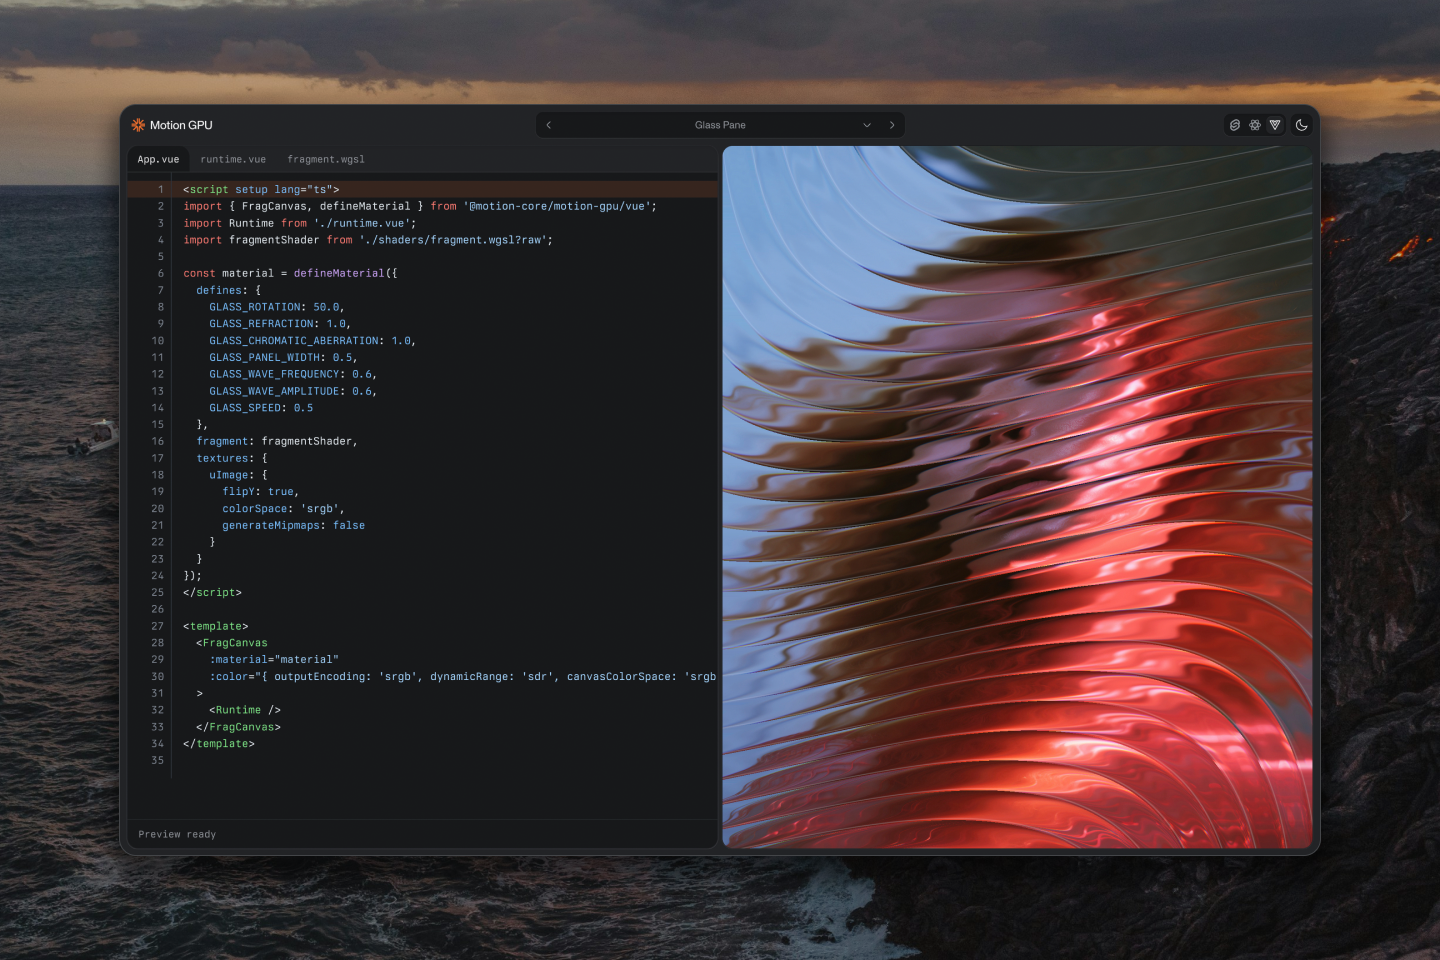
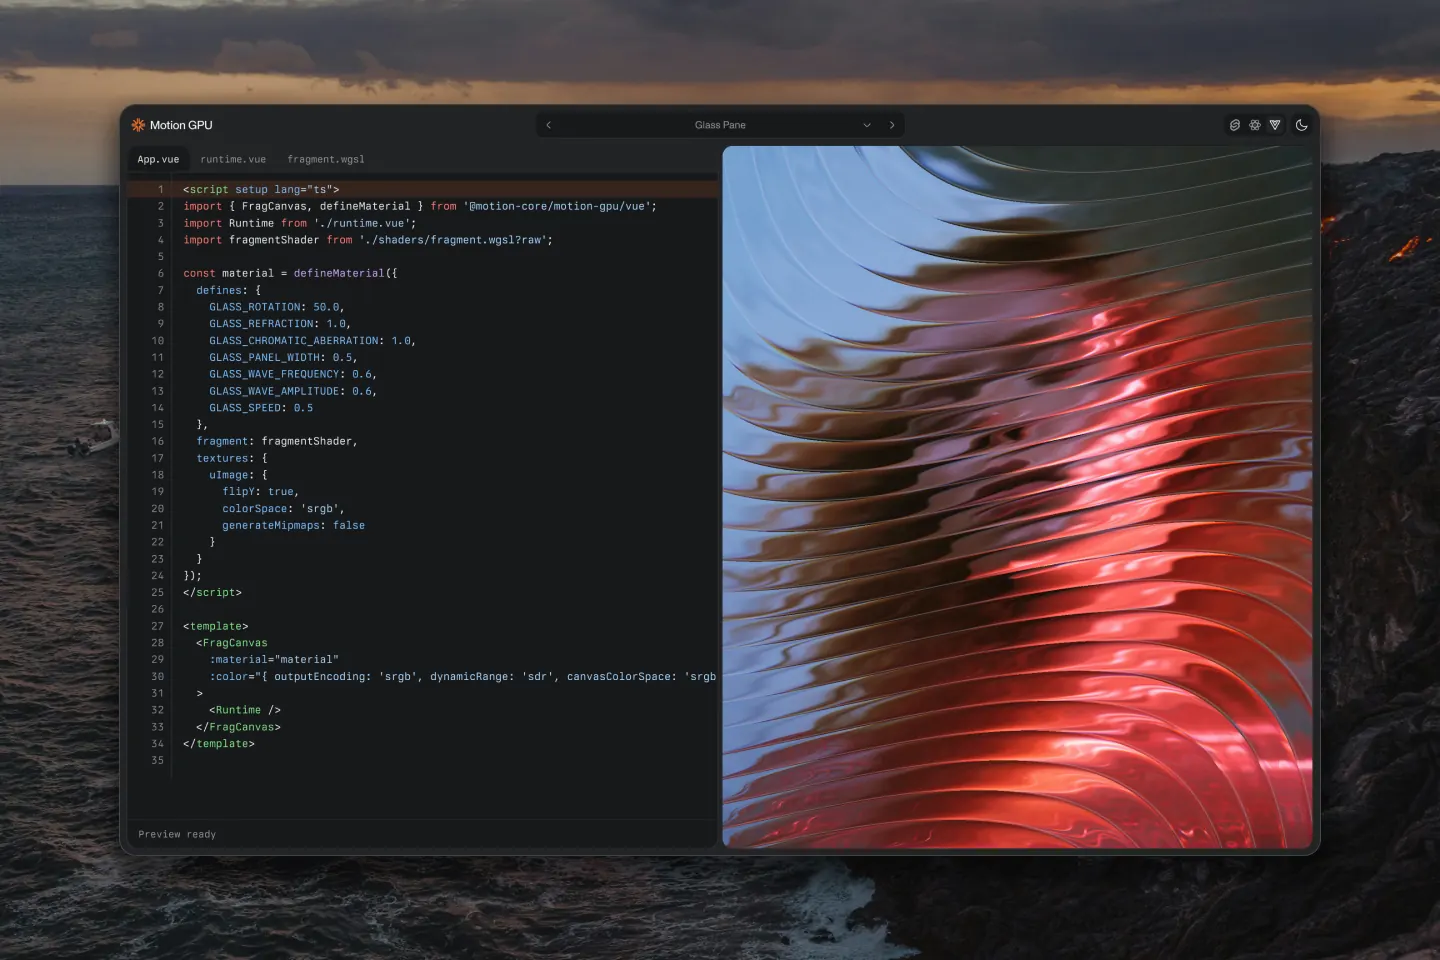
perf(images): optimize project previews

Changed region(s): [[0.1562, 0.3125, 0.25, 0.4375], [0.1562, 0.5312, 0.2188, 0.5625], [0.125, 0.1875, 0.1562, 0.25]]

diff --git a/src/lib/content/data/projects.ts b/src/lib/content/data/projects.ts
@@ -9,6 +9,8 @@ export const projectsData: { title: string; ctaLabel: string; githubCtaLabel: st
       title: "Motion Core",
       description: "Motion Components for Svelte.",
       image: "/images/works/motioncore.webp",
+      imageSrcset:
+        "/images/works/motioncore-480.webp 480w, /images/works/motioncore-768.webp 768w, /images/works/motioncore.webp 1440w",
       href: "https://motion-core.dev/",
       githubHref: "https://github.com/motion-core/motion-core",
     },
@@ -16,6 +18,8 @@ export const projectsData: { title: string; ctaLabel: string; githubCtaLabel: st
       title: "Motion GPU",
       description: "Minimal WebGPU framework.",
       image: "/images/works/motiongpu.webp",
+      imageSrcset:
+        "/images/works/motiongpu-480.webp 480w, /images/works/motiongpu-768.webp 768w, /images/works/motiongpu.webp 1440w",
       href: "https://motion-gpu.dev/",
       githubHref: "https://github.com/motion-core/motion-gpu",
     },
@@ -23,6 +27,8 @@ export const projectsData: { title: string; ctaLabel: string; githubCtaLabel: st
       title: "Frame",
       description: "Aesthetic media converter.",
       image: "/images/works/frame.webp",
+      imageSrcset:
+        "/images/works/frame-480.webp 480w, /images/works/frame-768.webp 768w, /images/works/frame.webp 1440w",
       href: "https://framegui.app/",
       githubHref: "https://github.com/66HEX/frame/",
     },

diff --git a/src/lib/components/layout/LandingContentCard.svelte b/src/lib/components/layout/LandingContentCard.svelte
@@ -12,6 +12,7 @@
     title: string;
     description: string;
     image: string;
+    imageSrcset: string;
     href: string;
     ctaLabel: string;
     githubHref?: string;
@@ -59,12 +60,14 @@
     <div class="h-52 overflow-hidden rounded-sm sm:h-100">
       <img
         src={card.image}
+        srcset={card.imageSrcset}
+        sizes="(min-width: 48rem) 704px, calc(100vw - 4rem)"
         alt={`${card.title} preview`}
         class="h-full w-full origin-center object-cover"
         loading="lazy"
         decoding="async"
-        width="1280"
-        height="720"
+        width="1440"
+        height="960"
       />
     </div>
 

diff --git a/src/lib/components/home/sections/ProjectsSection.svelte b/src/lib/components/home/sections/ProjectsSection.svelte
@@ -23,6 +23,7 @@
           title: project.title,
           description: project.description,
           image: project.image,
+          imageSrcset: project.imageSrcset,
           href: project.href,
           ctaLabel,
           githubHref: project.githubHref,

diff --git a/src/lib/content/types.ts b/src/lib/content/types.ts
@@ -11,6 +11,7 @@ export type ProjectItem = {
   title: string;
   description: string;
   image: string;
+  imageSrcset: string;
   href: string;
   githubHref?: string;
 };
